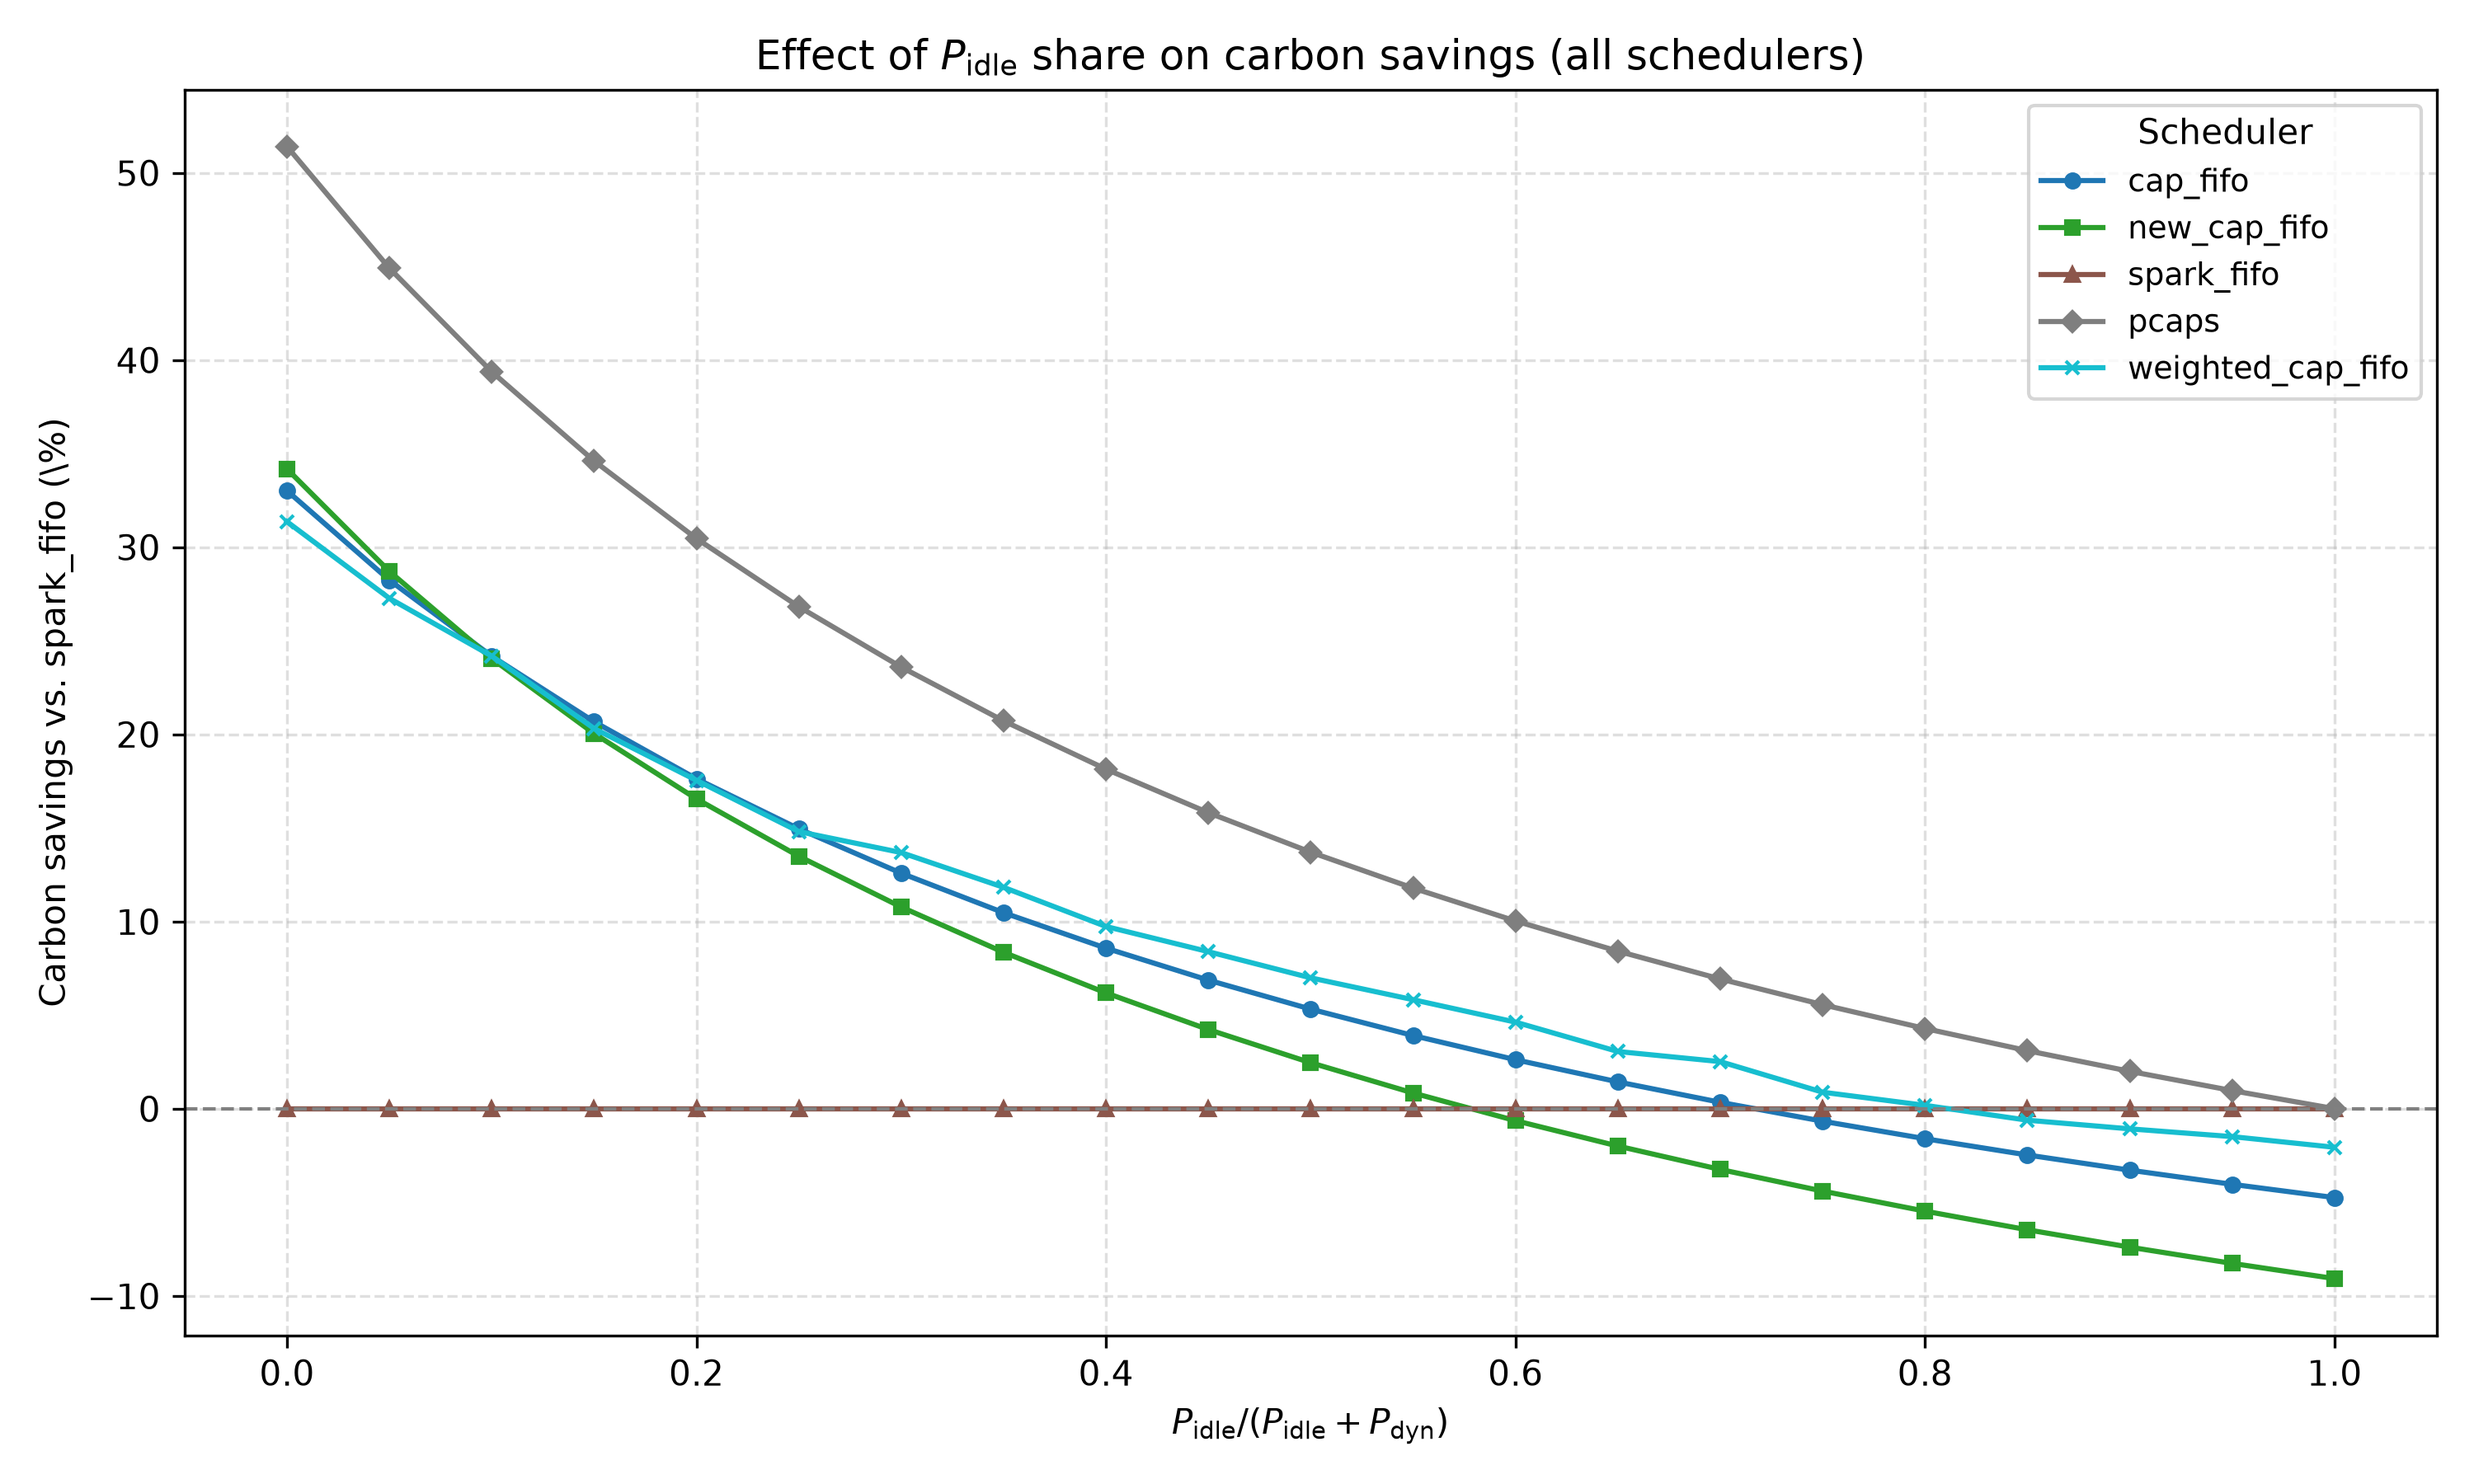
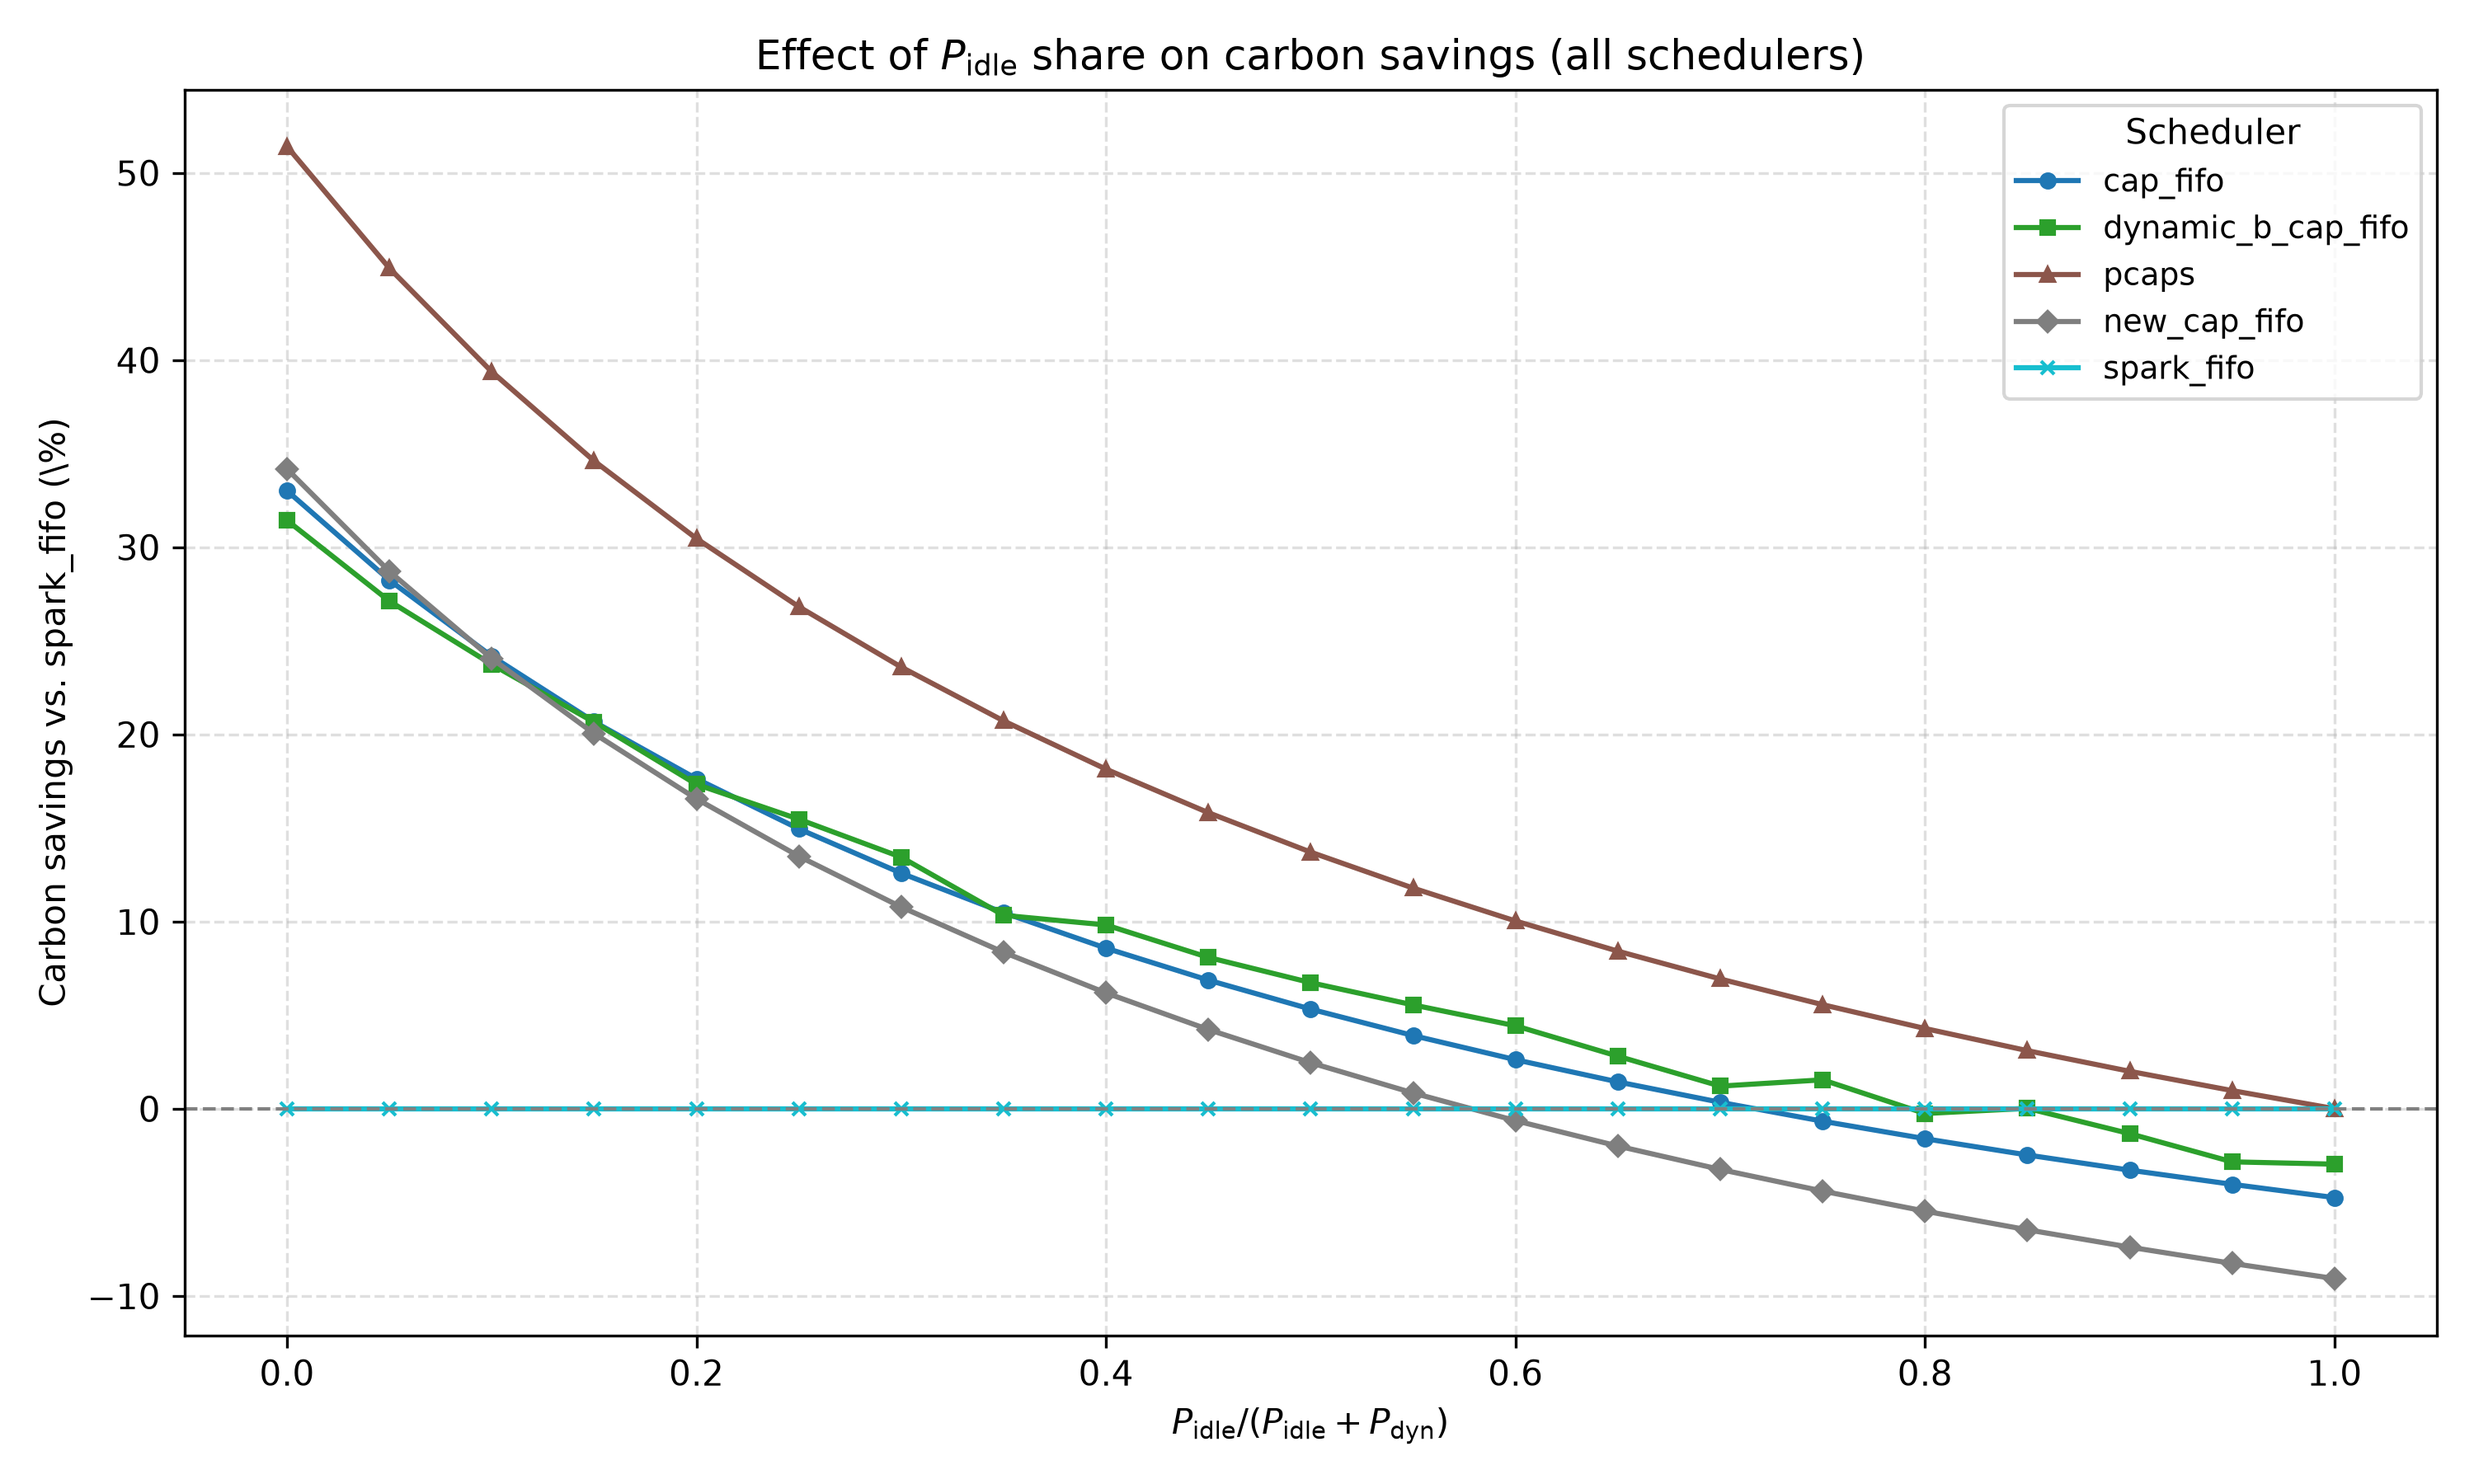
feat: Dynamic B for CAP-FIFO

diff --git a/simulator/agents/dynamic_b_cap_fifo_agent.py b/simulator/agents/dynamic_b_cap_fifo_agent.py
@@ -1,0 +1,111 @@
+# dynamic_b_cap_fifo_agent.py adds a workload- and power-dependent CAP lower bound.
+
+from agents.new_cap_fifo_agent import CarbonAgent as BaseCarbonAgent
+
+
+class DynamicBCapFIFOAgent(BaseCarbonAgent):
+    """New CAP FIFO with a dynamic executor lower bound only."""
+
+    def __init__(self, exec_cap, carbon_schedule, pidle=0.0, pdyn=1.0,
+                 base_B=20, max_B=60, max_consecutive_waits=3):
+        super().__init__(
+            exec_cap=exec_cap,
+            carbon_schedule=carbon_schedule,
+            exec_lower_bound=min(base_B, exec_cap),
+        )
+        self.pidle = pidle
+        self.pdyn = pdyn
+        self.base_B = max(1, base_B)
+        self.max_B = min(max_B, exec_cap)
+        self.max_consecutive_waits = max_consecutive_waits
+        self.consecutive_waits = 0
+
+    def compute_dynamic_B(self, job_dags, exec_commit, moving_executors):
+        pending_tasks = 0
+        for job_dag in job_dags:
+            if job_dag.name == 'dummy':
+                continue
+            for node in job_dag.nodes:
+                pending_tasks += self.remaining_tasks(
+                    node, exec_commit, moving_executors)
+
+        work_factor = min(1.0, pending_tasks / 1000.0)
+        idle_penalty = 1.0 - 0.5 * max(0.0, min(1.0, self.pidle))
+        dynamic_bonus = 0.25 * max(0.0, min(1.0, self.pdyn))
+        dynamic_B = int(
+            self.base_B * work_factor * (idle_penalty + dynamic_bonus)
+        )
+        return min(
+            max(5, dynamic_B),
+            self.max_B,
+            self.exec_cap_MAX,
+        )
+
+    def _source_action(self, node, num_source_exec):
+        available = max(int(self.last_available_cap), 0)
+        use_exec = min(num_source_exec, available)
+        if use_exec < 1:
+            if self.consecutive_waits >= self.max_consecutive_waits:
+                self.consecutive_waits = 0
+                return node, num_source_exec, False
+            self.consecutive_waits += 1
+            return None, num_source_exec, True
+        self.consecutive_waits = 0
+        return node, use_exec, False
+
+    def get_action(self, obs):
+        job_dags, source_job, num_source_exec, \
+            frontier_nodes, executor_limits, exec_commit, \
+            moving_executors, action_map, current_time = obs
+
+        self.B = self.compute_dynamic_B(
+            job_dags, exec_commit, moving_executors)
+
+        current_carbon, lower_carbon, upper_carbon = \
+            self.get_carbon_intensity(current_time)
+        self.L = lower_carbon
+        self.U = upper_carbon
+        self.exec_cap = self.compute_exec_cap(
+            current_carbon, lower_carbon, upper_carbon)
+        allocated = self.count_allocated_executors(
+            job_dags, exec_commit, moving_executors)
+        self.last_allocated_executors = allocated
+        self.last_available_cap = self.exec_cap - allocated
+
+        source_action = self._source_job_action(
+            source_job, num_source_exec, frontier_nodes)
+        if source_action is not None:
+            return source_action
+
+        available = max(int(self.last_available_cap), 0)
+        for job_dag in job_dags:
+            if job_dag.name == 'dummy':
+                continue
+            next_node = None
+            for node in job_dag.frontier_nodes:
+                if node in frontier_nodes:
+                    next_node = node
+                    break
+            if next_node is None:
+                for node in frontier_nodes:
+                    if node.job_dag == job_dag:
+                        next_node = node
+                        break
+            if next_node is None:
+                continue
+
+            remaining = self.remaining_tasks(
+                next_node, exec_commit, moving_executors)
+            use_exec = min(remaining, num_source_exec, available)
+            if use_exec >= 1:
+                self.consecutive_waits = 0
+                return next_node, int(use_exec), False
+
+            if self.consecutive_waits >= self.max_consecutive_waits:
+                self.consecutive_waits = 0
+                return next_node, min(remaining, num_source_exec), False
+
+        if job_dags and num_source_exec > 0:
+            self.consecutive_waits += 1
+            return None, num_source_exec, True
+        return None, num_source_exec, False

diff --git a/simulator/test.py b/simulator/test.py
@@ -16,6 +16,7 @@ from agents.carbon_aware_fifo_agent import CarbonAgent
 from agents.carbon_power_agent import CarbonPowerAgent
 from agents.green_hadoop_agent import GreenHadoopThetaAgent
 from agents.new_cap_fifo_agent import CarbonAgent as NewCarbonAgent
+from agents.dynamic_b_cap_fifo_agent import DynamicBCapFIFOAgent
 from agents.weighted_cap_fifo_agent import CarbonPowerAgent as WeightedCapFIFOAgent
 from agents.new_cap_heuristic_agent import CarbonPartitionAgent as NewCarbonPartitionAgent
 from agents.new_cap_decima_agent import CarbonActorAgent as NewCarbonActorAgent
@@ -50,10 +51,11 @@ power_models = [
 # Other schedulers, including the updated legacy agents, are evaluated once
 # with the legacy dynamic-only model.
 power_aware_schemes = {
-    'cap_power', 'weighted_cap_fifo'
+    'cap_power', 'weighted_cap_fifo', 'dynamic_b_cap_fifo'
 }
 carbon_aware_schemes = {
     'cap_fifo', 'cap_partition', 'cap_power',
+    'dynamic_b_cap_fifo',
     'new_cap_fifo', 'weighted_cap_fifo', 'new_cap_partition',
     'new_cap_decima', 'new_pcaps',
     'pcaps', 'cap_decima', 'green_hadoop'
@@ -139,6 +141,10 @@ def create_agent(scheme, power_model, experiment_seed):
         return WeightedCapFIFOAgent(
             exec_cap=args.exec_cap, carbon_schedule=carbon_dict,
             pidle=pidle, pdyn=pdyn, rho=args.rho)
+    if scheme == 'dynamic_b_cap_fifo':
+        return DynamicBCapFIFOAgent(
+            exec_cap=args.exec_cap, carbon_schedule=carbon_dict,
+            pidle=pidle, pdyn=pdyn)
     if scheme in ('new_cap_partition'):
         return NewCarbonPartitionAgent(
             exec_cap=args.exec_cap, carbon_schedule=carbon_dict)
